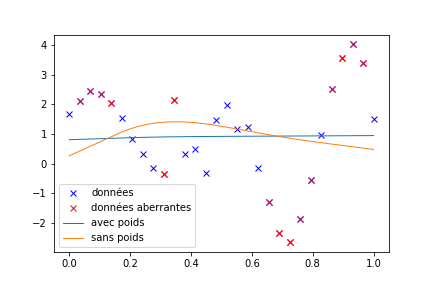
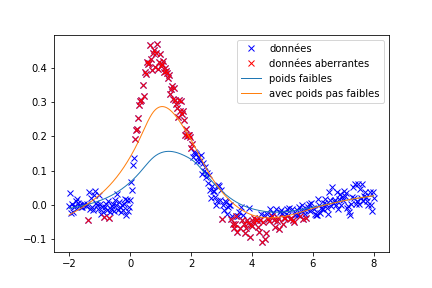
Week end huhu

diff --git a/TACHES/5b - Poids faible aux points aberrants/Splines_de_lissages.py b/TACHES/5b - Poids faible aux points aberrants/Splines_de_lissages.py
@@ -325,59 +325,47 @@ def Matdiag(n):
 MAIN PROGRAM :   
 ------------------------------------------------------"""
 if __name__ == '__main__':
-    #(uk,zk) =  np.loadtxt('data.txt') # prépare les donnéeS
-    nfunc = lambda x: sign.add_bivariate_noise(x, 0.1, prob=0.3)
-    uk,zk, f = sign.stationary_signal((30,), 0.6, noise_func=nfunc,seed=0)
-    x0 = np.array([0.0, 0.0, 0.0])
-    data = pandas.Series(zk, uk)
-    
-
-
+    (uk,zk) =  np.loadtxt('data.txt') # prépare les donnéeS
+    #nfunc = lambda x: sign.add_bivariate_noise(x, 0.1, prob=0.15)
+    #uk,zk, f = sign.stationary_signal((100,), 0.9, noise_func=nfunc)
+    data = pandas.Series(zk, uk) # prépare les données pour l'estimateur du paramètre de lissage optimal.
     rho = SimpleExpSmoothing(data).fit().params['smoothing_level'] # trouve le paramètre de lissage optimal
-
-
     print(rho)
-
-
-    
-    
-    m = len(uk)
+     
+    N = len(uk) # taille de l'échantillon
     a = uk[0] # intervalle
-    b = uk[m-1] # intervalle
+    b = uk[N-1] # intervalle
     
     
  
-    M = detect.eval_quartile
-    #M =  detect.test_Chauvenet
+    #M = detect.eval_quartile
+    M =  detect.test_Chauvenet
     #M = detect.thompson
     #M = detect.grubbs
     #M = detect.deviation_extreme_student
     #M = detect.KNN
     
-    yd, v_poids, indices_aberrants = detect.supprime(zk, M)  # AMELYS : IL FAUT GERER LE CAS Où ON NE SUPPRIME PAS LES POIDS
+    yd, v_poids, indices_aberrants = detect.supprime(zk, M)  
     for i in range(len(indices_aberrants)):        
-        v_poids[indices_aberrants[i]] = 1/10
-    print(opt.curve_fit(f, uk, zk, x0,v_poids))
-    y_estimated = weight.construct(uk, zk,v_poids,rho) #estimons les nouvelles ordonnées des points de notre échantillon
-
-    
-
+        v_poids[indices_aberrants[i]] = 0.1
+    print(indices_aberrants)
+    y_estimated_aberrants = weight.poids_faibles(uk, zk,v_poids,rho) #estimons les nouvelles ordonnées des points de notre échantillon
+   
     
    
-    N = len(zk) # taille de l'échantillon
-    
+
     plt.plot(uk,zk,'bx',label='données') # affichage des points de l'échantillon
-   
+    
     x_aberrantes = []
     y_aberrantes = []
     
     for i in range(len(indices_aberrants)):
         x_aberrantes = np.append(x_aberrantes,uk[indices_aberrants[i]])
         y_aberrantes = np.append(y_aberrantes,zk[indices_aberrants[i]])
-    plt.plot(x_aberrantes,y_aberrantes,'rx',label='données aberrantes') # affichage des points de l'échantillon éstimé
+    plt.plot(x_aberrantes,y_aberrantes,'rx',label='données aberrantes') # affichage des points aberrants de l'échantillon
     
-    n=10# nombre des noeuds attendus pour la spline de lissage
-    #plt.title('Spline de lissage avec '+str(n)+' noeuds') # titre
+    n=30# nombre des noeuds attendus pour la spline de lissage
+
    
     
     
@@ -393,33 +381,33 @@ if __name__ == '__main__':
     H = [xi[i+1]-xi[i] for i in range(len(xi)-1)] # vecteur des pas de la spline
  
     
-  
 
-    Y = Vecteur_y(uk,[y_estimated],N,xi,n,H,rho)
-    yi = np.transpose(Y)
-    yip = np.transpose(np.linalg.solve(MatriceA(n,H),(np.dot(MatriceR(n,H),Y))))
-    xx_initial=[]
-    yy_initial=[]
-    for i in range(n-1):
-        x,y = HermiteC1(xi[i],yi[0][i],yip[0][i],xi[i+1],yi[0][i+1],yip[0][i+1])
-        xx_initial=np.append(xx_initial,x)
-        yy_initial=np.append(yy_initial,y)
-    
-    
+
     
     Y = Vecteur_y(uk,[zk],N,xi,n,H,rho)
     yi = np.transpose(Y)
     yip = np.transpose(np.linalg.solve(MatriceA(n,H),(np.dot(MatriceR(n,H),Y))))
-    xx=[]
-    yy=[]
+    xx_1=[]
+    yy_1=[]
     for i in range(n-1):
         x,y = HermiteC1(xi[i],yi[0][i],yip[0][i],xi[i+1],yi[0][i+1],yip[0][i+1])
-        xx=np.append(xx,x)
-        yy=np.append(yy,y)
-     
-    plt.plot(xx_initial,yy_initial,lw=1,label='avec poids')
-    plt.plot(xx,yy,lw=1,label='sans poids')
+        xx_1=np.append(xx_1,x)
+        yy_1=np.append(yy_1,y)
+
+    Y = Vecteur_y(uk,[y_estimated_aberrants],N,xi,n,H,rho)
+    yi = np.transpose(Y)
+    yip = np.transpose(np.linalg.solve(MatriceA(n,H),(np.dot(MatriceR(n,H),Y))))
+    xx_2=[]
+    yy_2=[]
+    for i in range(n-1):
+        x,y = HermiteC1(xi[i],yi[0][i],yip[0][i],xi[i+1],yi[0][i+1],yip[0][i+1])
+        xx_2=np.append(xx_2,x)
+        yy_2=np.append(yy_2,y)
+   
+    plt.plot(xx_2,yy_2,lw=1,label='Avec poids faibles')
+    plt.plot(xx_1,yy_1,lw=1,label='Sans poids')
+   
     
    
     plt.legend()
-    plt.savefig('IMG_Tache5b_nonunif.png')    
+    plt.savefig('IMG_Tache5b.png')    

diff --git a/TACHES/5b - Poids faible aux points aberrants/CR_tache_5b.tex b/TACHES/5b - Poids faible aux points aberrants/CR_tache_5b.tex
@@ -23,8 +23,11 @@
 \section{Poids faible aux points aberrants}
 
 \subsection{Introduction}
+Maintenant que nos différentes détectent des points aberrants, nous voulons créer des plines prenant en compte ces points en leur donnant un poids faible et donc réduire leur impact sur le lissage.
 
-LOESS est une méthode de régression non paramétrique. Elle utilise la régression linéaire des moindres carrés pondérés et créé une fonction qui décrit la variation des données, point par point, en considèrant de manière plus importante les données les plus proches de ce point.
+Une des idées était d'intégrer nos poids faibles dans une méthode de lissage faisant intervenir les poids. C'est là qu'intervient la méthode LOESS.
+
+LOESS (ou LOWESS) est une méthode de régression non paramétrique. Elle utilise la régression linéaire des moindres carrés pondérés et créé une fonction qui décrit la variation des données, point par point, en considèrant de manière plus importante les données les plus proches de ce point.
 
 L'objectif est d'ajuster $\theta = [\theta_0, \theta_1]$ pour minimiser les moindres carrés pondérés soit : \[\sum_{i=1}^m w_i ( y_i - (\theta_0 + \theta_1 x_i))^2 \ \ \text{(1)}\]
 
@@ -32,7 +35,7 @@ Avec :
 \begin{itemize}
     \item[•]  $\theta_0 \ et \ \theta_1$ les paramètres inconnus dont la valeur permet d'effectuer la procédure d'ajustement  
     \item[•]  $(\theta_0 + \theta_1 x_i)$ la coordonnée en y prédite par la méthode en fonction de ces paramètres.
-    \item[•]  $1 > w_i = \exp \left( - \frac{(x_i - x)^2}{2 \rho^2} \right) > 0$ le poids Gaussien où  $\rho$ est considéré dans notre cas comme le paramètre de lissage.
+    \item[•]  $1 > w_i = \exp \left( - \frac{(x -x_i)^2}{2 \rho} \right)*vpoids_i > 0$ le poids Gaussien affecté par notre vecteur de poids vpoids où  $\rho$ est considéré dans notre cas comme le paramètre de lissage.
 \end{itemize}
 
 Les poids est donc donné en utilisant le calcul des moindres carrés, on a par conséquent :
@@ -49,8 +52,8 @@ Notre modèle après la méthode est ajusté, ne retenant que le point du modèl
 \begin{figure}[htp]
     \centering
     \includegraphics[width=10cm]{IMG_Tache5b_nonunif}
-    \caption{Exemple du résultat }
-    \label{fig:uniforme}
+    \caption{Exemple de résultat }
+    \label{fig:exemple}
 \end{figure}
 
 Dans cet exemple, nous avons en rouge une spline de lissage et en bleu une autre spline de lissage utilisant la méthode LOESS.  Nous avons également les valeurs initiales de l'échantillon en rouge et celle ajustées en bleu. On remarque que la méthode LOESS considère moins les valeurs pouvant être considérées comme aberrantes ou bruitées.
@@ -92,7 +95,7 @@ Il nous suffit donc de résoudre cette matrice.
 
 \subsection{Bilan}
 
-On a donc une méthode fonctionnelle s'adaptant à tout type de fonction mais peu devenir coûteuse en terme de temps lorsque l'échantillon devient grand.
+On a donc une méthode fonctionnelle donnant un poids faibles aux points aberrants mais peut devenir coûteuse en terme de temps lorsque l'échantillon devient grand.
 
 
 \section{Bibliographie}

diff --git a/TACHES/5b - Poids faible aux points aberrants/weight_function.py b/TACHES/5b - Poids faible aux points aberrants/weight_function.py
@@ -1,39 +1,38 @@
 
 import numpy as np
-from math import ceil
-
 from scipy import linalg
 
-
-
-
-def construct(x, y,v_poids, rho=0.05):
+def poids_faibles(x, y,v_poids,rho):
     """
     Création du vecteur y_estimated depuis y, où ses valeurs sont estimées par le poid respectif de chacune
     
     Intput :
         uk,zk : vecteurs de float de l'échantillon étudié
-     
+        v_poids : vecteur de float, poids des valeurs de l'échantillon
     Output :
         y_estimated :  vecteurs de float(valeurs en y) de l'échantillon étudié, estimés par la méthode LOESS. 
     """
-    if rho == 0:
-        rho = 0.001
+
     n = len(x)
     y_estimated = np.zeros(n)
-
+   
    
     w = np.array([np.exp(- (x - x[i])**2/(2*rho))*v_poids[i] for i in range(n)])  #initialise tous les poids    
-    
-   
-    
+
     for i in range(n): #Calcule la nouvelle coordonnée de tout point
         weights = w[:, i]
         b = np.array([np.sum(weights * y), np.sum(weights * y * x)])
         A = np.array([[np.sum(weights), np.sum(weights * x)],
-                    [np.sum(weights * x), np.sum(weights * x * x)]])
+                      [np.sum(weights * x), np.sum(weights * x * x)]])
         Theta = linalg.solve(A, b)
         y_estimated[i] = Theta[0] + Theta[1] * x[i] 
+            
     
     return y_estimated
+
+
+
+
+
+
 
